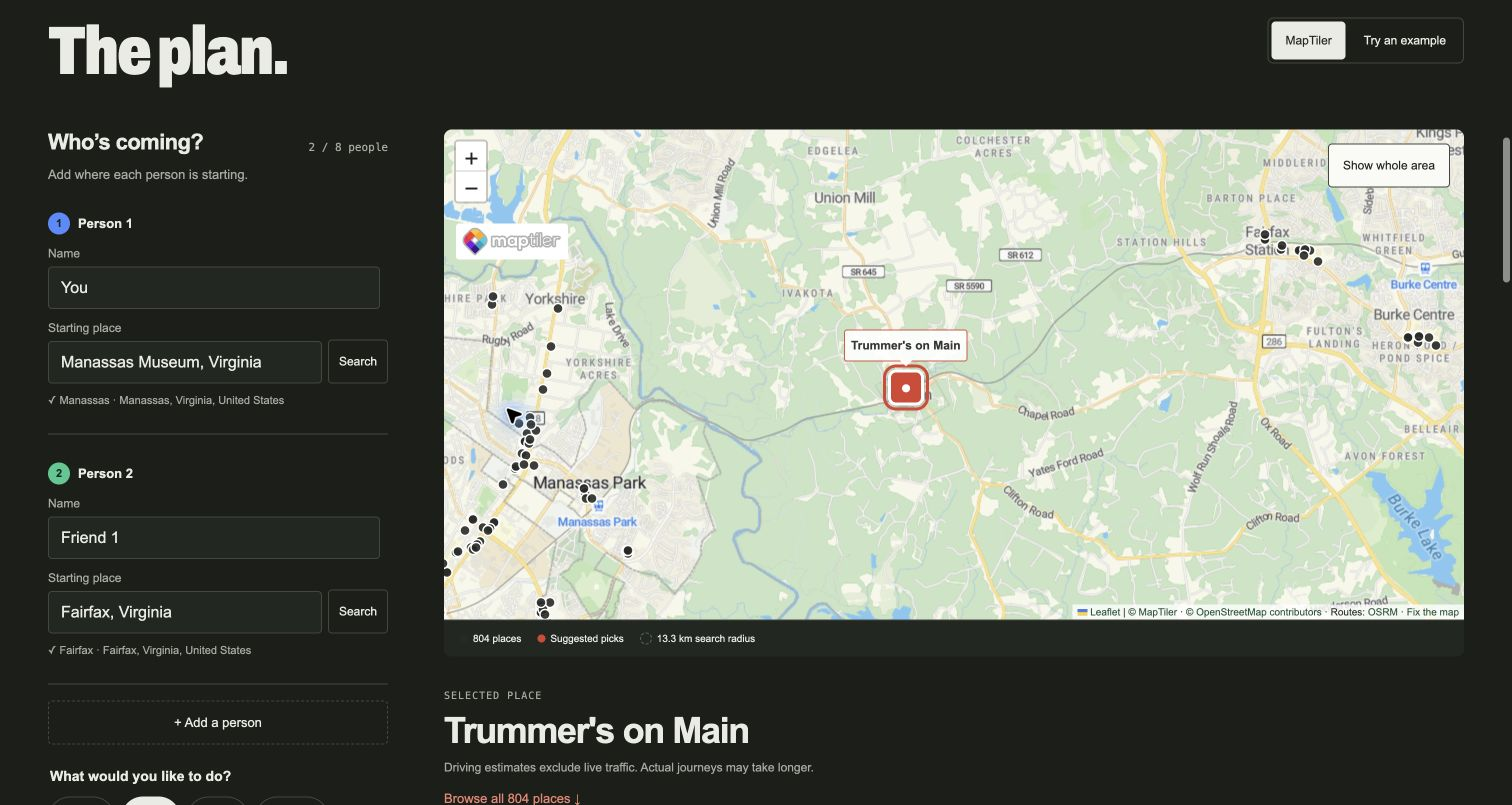
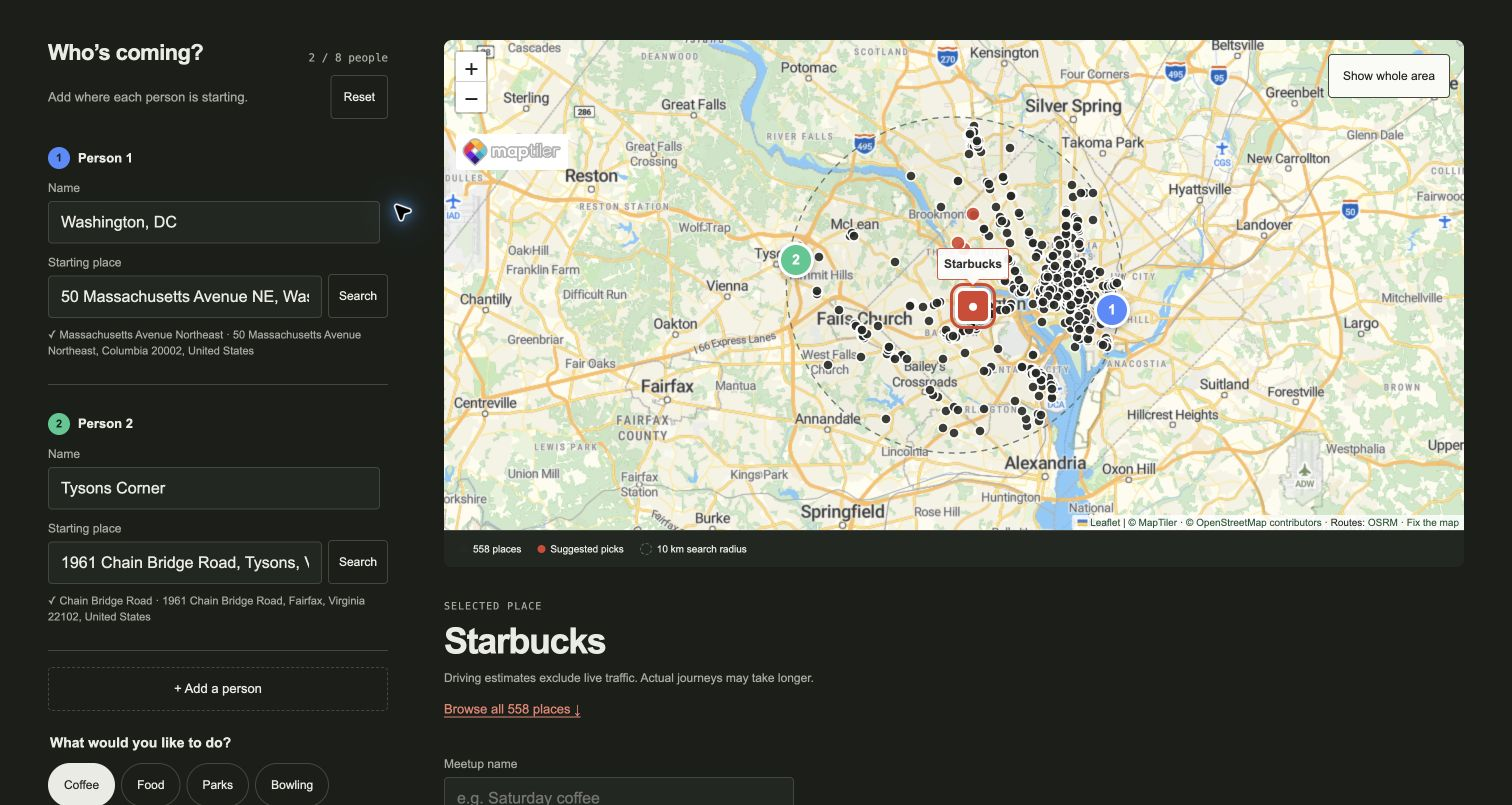
Show DC and Tysons café search in README preview

diff --git a/README.md b/README.md
@@ -4,7 +4,9 @@ RouteMeet helps groups choose a place to meet by comparing the drive from each p
 
 ## Preview
 
-![RouteMeet’s planner showing starting places in Manassas and Fairfax, a map of nearby venues, and a selected café](docs/images/planner.png)
+![RouteMeet’s planner with Washington, DC and Tysons Corner starting addresses, all returned café markers, and a 10 km search radius](docs/images/planner.png)
+
+Shown above: a coffee search between Union Station in Washington, DC and Tysons Corner Center, with all returned places plotted within a 10 km radius of the meeting center.
 
 The planner supports two to eight people, category filters, individual driving estimates, saved groups, and Apple Maps links with QR codes for a chosen destination.
 
